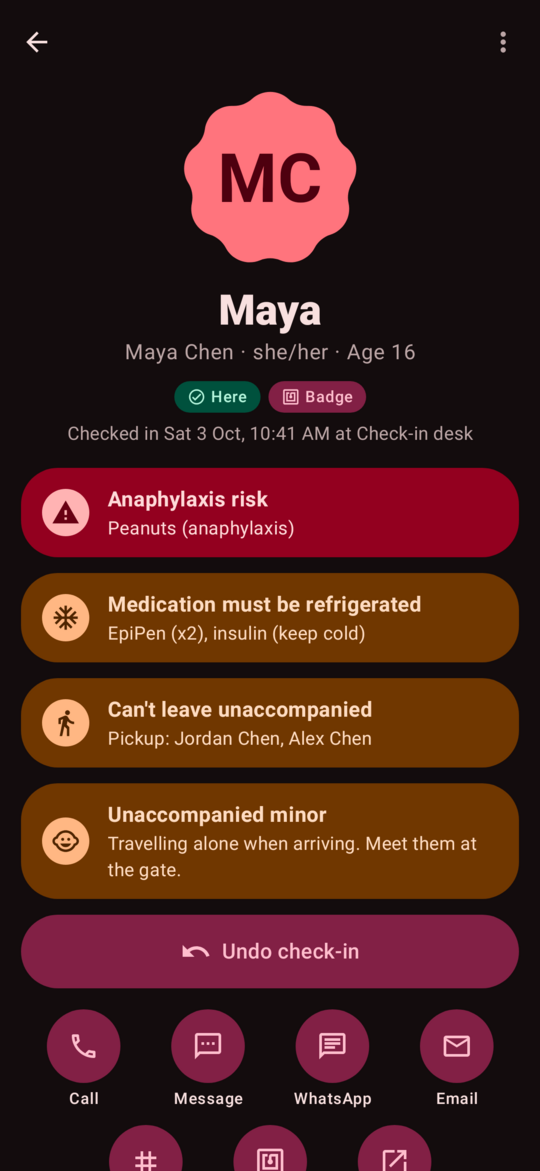
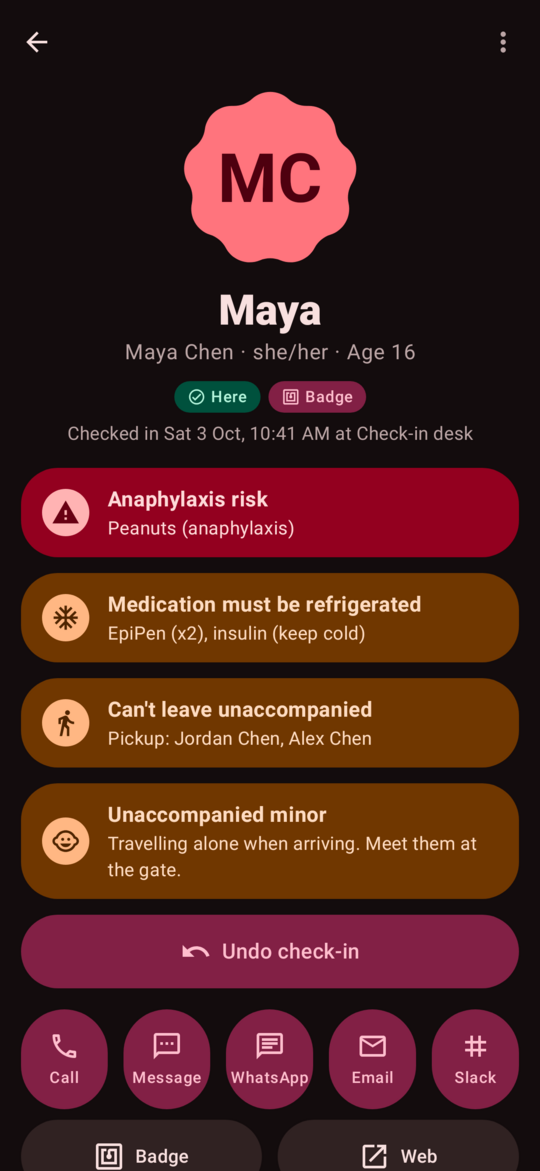
Participant actions as expressive button groups
Contact actions (Call, Message, WhatsApp, Email, Slack) are a row of tall
tonal pills and record actions (Badge, Edit, Web) a quieter row beneath,
both Material 3 Expressive button groups like Home's quick actions: the
pressed button squares off and widens, and anything that doesn't fit
goes to an overflow menu. Five contact pills drop to labelMedium so
"WhatsApp" fits.

The top bar's menu is now "More actions for this person", so it isn't
confused with the button groups' "More options" overflow indicators.

Claude-Session: https://claude.ai/code/session_01Ra1FXBNRk9vioyxu1bfSRk

Changed region(s): [[0.0296, 0.8608, 0.9778, 1.0]]

diff --git a/android/app/src/main/java/au/ingo/betterattend/ui/people/ParticipantDetailScreen.kt b/android/app/src/main/java/au/ingo/betterattend/ui/people/ParticipantDetailScreen.kt
@@ -23,8 +23,8 @@ import androidx.compose.foundation.lazy.LazyListScope
 import androidx.compose.foundation.pager.HorizontalPager
 import androidx.compose.foundation.pager.rememberPagerState
 import androidx.compose.foundation.layout.Arrangement
+import androidx.compose.foundation.interaction.MutableInteractionSource
 import androidx.compose.foundation.layout.Box
-import androidx.compose.foundation.layout.BoxWithConstraints
 import androidx.compose.foundation.layout.Column
 import androidx.compose.foundation.layout.PaddingValues
 import androidx.compose.foundation.layout.Row
@@ -33,6 +33,7 @@ import androidx.compose.foundation.layout.WindowInsets
 import androidx.compose.foundation.layout.fillMaxSize
 import androidx.compose.foundation.layout.fillMaxWidth
 import androidx.compose.foundation.layout.height
+import androidx.compose.foundation.layout.heightIn
 import androidx.compose.foundation.layout.padding
 import androidx.compose.foundation.layout.size
 import androidx.compose.foundation.layout.width
@@ -61,6 +62,8 @@ import androidx.compose.material.icons.outlined.Sms
 import androidx.compose.material.icons.outlined.Tag
 import androidx.compose.material3.Button
 import androidx.compose.material3.ButtonDefaults
+import androidx.compose.material3.ButtonGroup
+import androidx.compose.material3.ButtonGroupDefaults
 import androidx.compose.material3.DropdownMenu
 import androidx.compose.material3.DropdownMenuItem
 import androidx.compose.material3.FilledTonalButton
@@ -107,7 +110,6 @@ import androidx.compose.ui.graphics.vector.ImageVector
 import androidx.compose.ui.text.style.TextAlign
 import androidx.compose.ui.text.style.TextOverflow
 import androidx.compose.ui.unit.dp
-import androidx.compose.ui.unit.min
 import androidx.lifecycle.Lifecycle
 import androidx.lifecycle.LifecycleEventObserver
 import androidx.lifecycle.LifecycleOwner
@@ -477,7 +479,7 @@ fun ParticipantDetailContent(
 private fun OverflowMenu(state: DetailUiState, p: Participant, callbacks: DetailCallbacks, onDialog: (String) -> Unit) {
     var open by remember { mutableStateOf(false) }
     Box {
-        IconButton(onClick = { open = true }) { Icon(Icons.Outlined.MoreVert, "More options") }
+        IconButton(onClick = { open = true }) { Icon(Icons.Outlined.MoreVert, "More actions for this person") }
         // Edit and the web link are in the action row; this keeps the copy and the destructive actions.
         DropdownMenu(expanded = open, onDismissRequest = { open = false }) {
             DropdownMenuItem(
@@ -631,42 +633,89 @@ private fun ActionsPanel(state: DetailUiState, p: Participant, callbacks: Detail
         // Whatever email the server sends is already on screen, so mailing it needs no extra permission.
         val email = p.email?.takeIf { it.isNotBlank() }
         val slack = p.slackUserId?.takeIf { it.isNotBlank() }
-        val tiles = buildList {
+        val reach = buildList {
             if (phone != null) {
-                add(ActionTileSpec(Icons.Outlined.Call, "Call") { callbacks.contact.call(phone) })
-                add(ActionTileSpec(Icons.Outlined.Sms, "Message") { callbacks.contact.sms(phone) })
-                add(ActionTileSpec(Icons.AutoMirrored.Outlined.Chat, "WhatsApp") { callbacks.contact.whatsApp(phone) })
+                add(QuickAction(Icons.Outlined.Call, "Call") { callbacks.contact.call(phone) })
+                add(QuickAction(Icons.Outlined.Sms, "Message") { callbacks.contact.sms(phone) })
+                add(QuickAction(Icons.AutoMirrored.Outlined.Chat, "WhatsApp") { callbacks.contact.whatsApp(phone) })
             }
-            if (email != null) add(ActionTileSpec(Icons.Outlined.Email, "Email") { callbacks.contact.email(email) })
-            if (slack != null) add(ActionTileSpec(Icons.Outlined.Tag, "Slack") { callbacks.contact.slack(slack) })
-            add(ActionTileSpec(Icons.Outlined.Nfc, "Badge", busy = state.busy == DetailBusy.ResettingBadge, onClick = callbacks.writeBadge))
-            // Only once the full profile is here: the roster copy has no legal names or birthday.
-            if (state.canEditDetails && state.detailLoaded) add(ActionTileSpec(Icons.Outlined.Edit, "Edit", onClick = callbacks.editDetails))
-            if (state.event != null) add(ActionTileSpec(Icons.AutoMirrored.Outlined.OpenInNew, "Web", onClick = callbacks.openWeb))
+            if (email != null) add(QuickAction(Icons.Outlined.Email, "Email") { callbacks.contact.email(email) })
+            if (slack != null) add(QuickAction(Icons.Outlined.Tag, "Slack") { callbacks.contact.slack(slack) })
         }
-        ActionTiles(tiles)
+        val manage = buildList {
+            add(QuickAction(Icons.Outlined.Nfc, "Badge", busy = state.busy == DetailBusy.ResettingBadge, onClick = callbacks.writeBadge))
+            // Only once the full profile is here: the roster copy has no legal names or birthday.
+            if (state.canEditDetails && state.detailLoaded) add(QuickAction(Icons.Outlined.Edit, "Edit", onClick = callbacks.editDetails))
+            if (state.event != null) add(QuickAction(Icons.AutoMirrored.Outlined.OpenInNew, "Web", onClick = callbacks.openWeb))
+        }
+        Column(verticalArrangement = Arrangement.spacedBy(8.dp)) {
+            if (reach.isNotEmpty()) QuickActionGroup(reach, stacked = true)
+            QuickActionGroup(manage, stacked = false)
+        }
     }
 }
 
-private class ActionTileSpec(val icon: ImageVector, val label: String, val busy: Boolean = false, val onClick: () -> Unit)
+private class QuickAction(val icon: ImageVector, val label: String, val busy: Boolean = false, val onClick: () -> Unit)
 
 /**
- * Up to five tiles in one row; more wrap into two even rows (8 → 4 + 4, 7 → 4 + 3) with the
- * columns lined up and a shorter last row centred.
+ * An expressive button group, like Home's quick actions: pill buttons share the row, the pressed one
+ * squares off and pushes its neighbours aside, and any that don't fit move into an overflow menu.
+ * [stacked]: tall tonal buttons with the label under the icon (ways to reach them); otherwise a
+ * quieter row with the label beside the icon (things to do with the record).
  */
 @Composable
-private fun ActionTiles(tiles: List<ActionTileSpec>) {
-    if (tiles.isEmpty()) return
-    val perRow = if (tiles.size <= 5) tiles.size else (tiles.size + 1) / 2
-    // Explicit rows rather than a FlowRow: cells rounded up to whole pixels would wrap a full row.
-    BoxWithConstraints(Modifier.fillMaxWidth()) {
-        val cell = min(maxWidth / perRow, 96.dp)
-        Column(Modifier.fillMaxWidth(), verticalArrangement = Arrangement.spacedBy(12.dp)) {
-            tiles.chunked(perRow).forEach { row ->
-                Row(Modifier.fillMaxWidth(), horizontalArrangement = Arrangement.Center) {
-                    row.forEach { ActionTile(it, Modifier.width(cell)) }
-                }
-            }
+private fun QuickActionGroup(actions: List<QuickAction>, stacked: Boolean) {
+    ButtonGroup(
+        overflowIndicator = { menu -> ButtonGroupDefaults.OverflowIndicator(menu) },
+        modifier = Modifier.fillMaxWidth(),
+    ) {
+        actions.forEach { a ->
+            customItem(
+                buttonGroupContent = {
+                    val source = remember { MutableInteractionSource() }
+                    FilledTonalButton(
+                        onClick = a.onClick,
+                        enabled = !a.busy,
+                        shapes = ButtonDefaults.shapes(),
+                        colors = if (stacked) ButtonDefaults.filledTonalButtonColors()
+                        else ButtonDefaults.filledTonalButtonColors(
+                            containerColor = MaterialTheme.colorScheme.surfaceContainerHighest,
+                            contentColor = MaterialTheme.colorScheme.onSurface,
+                        ),
+                        interactionSource = source,
+                        contentPadding = if (stacked) PaddingValues(horizontal = 2.dp, vertical = 12.dp) else PaddingValues(horizontal = 12.dp),
+                        modifier = Modifier.weight(1f).animateWidth(source).heightIn(min = if (stacked) 76.dp else 56.dp),
+                    ) {
+                        val icon: @Composable () -> Unit = {
+                            if (a.busy) LoadingIndicator(Modifier.size(24.dp)) else Icon(a.icon, null, Modifier.size(24.dp))
+                        }
+                        // Five tall pills share a phone's width: a size down keeps "WhatsApp" whole.
+                        val style = if (stacked && actions.size > 4) MaterialTheme.typography.labelMedium else MaterialTheme.typography.labelLarge
+                        val label: @Composable () -> Unit = {
+                            Text(a.label, style = style, maxLines = 1, overflow = TextOverflow.Ellipsis)
+                        }
+                        if (stacked) {
+                            Column(horizontalAlignment = Alignment.CenterHorizontally) {
+                                icon()
+                                Spacer(Modifier.height(4.dp))
+                                label()
+                            }
+                        } else {
+                            icon()
+                            Spacer(Modifier.width(8.dp))
+                            label()
+                        }
+                    }
+                },
+                menuContent = { menu ->
+                    DropdownMenuItem(
+                        text = { Text(a.label) },
+                        leadingIcon = { Icon(a.icon, null) },
+                        enabled = !a.busy,
+                        onClick = { menu.dismiss(); a.onClick() },
+                    )
+                },
+            )
         }
     }
 }
@@ -747,15 +796,4 @@ private fun CheckInLabel(busy: Boolean, label: String) {
     else Icon(Icons.Outlined.CheckCircle, null)
     Spacer(Modifier.width(8.dp))
     Text(label, style = MaterialTheme.typography.titleMedium, maxLines = 1, overflow = TextOverflow.Ellipsis)
-}
-
-@Composable
-private fun ActionTile(tile: ActionTileSpec, modifier: Modifier = Modifier) {
-    Column(horizontalAlignment = Alignment.CenterHorizontally, modifier = modifier) {
-        FilledTonalIconButton(onClick = tile.onClick, enabled = !tile.busy, modifier = Modifier.size(56.dp)) {
-            if (tile.busy) LoadingIndicator(Modifier.size(24.dp)) else Icon(tile.icon, tile.label)
-        }
-        Spacer(Modifier.height(4.dp))
-        Text(tile.label, style = MaterialTheme.typography.labelMedium, maxLines = 1, overflow = TextOverflow.Ellipsis, textAlign = TextAlign.Center)
-    }
 }

diff --git a/android/app/src/test/java/au/ingo/betterattend/screenshots/ParticipantEditScreenshots.kt b/android/app/src/test/java/au/ingo/betterattend/screenshots/ParticipantEditScreenshots.kt
@@ -1,7 +1,6 @@
 package au.ingo.betterattend.screenshots
 
-import androidx.compose.ui.test.hasContentDescription
-import androidx.compose.ui.test.onFirst
+import androidx.compose.ui.test.onNodeWithContentDescription
 import androidx.compose.ui.test.onNodeWithText
 import androidx.compose.ui.test.performClick
 import au.ingo.betterattend.ui.people.EditDetailsContent
@@ -47,7 +46,8 @@ class ParticipantEditScreenshots : ScreenshotTest() {
     }
 
     private fun openMenu() {
-        compose.onAllNodes(hasContentDescription("More options")).onFirst().performClick()
+        // Not "More options": the action row's button groups have overflow indicators with that label.
+        compose.onNodeWithContentDescription("More actions for this person").performClick()
         compose.waitForIdle()
     }
 
